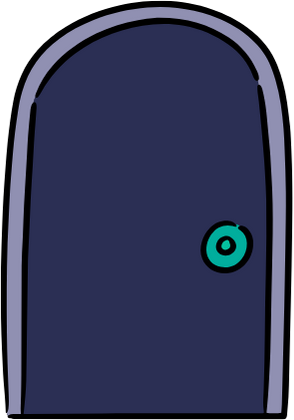
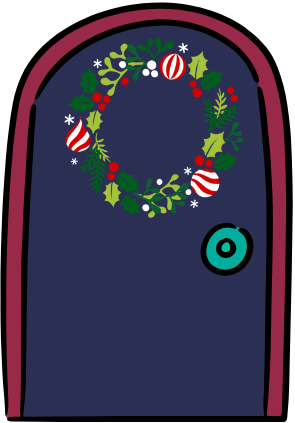
update doors, bg, build script

Changed region(s): [[0.0, 0.0, 1.0, 1.0], [0.6735, 0.5262, 0.8571, 0.65]]

diff --git a/themes/haystack/layouts/partials/arrow-button.html b/themes/haystack/layouts/partials/arrow-button.html
@@ -32,6 +32,11 @@
         {{ if eq . "discuss" }}
           <svg enable-background="new 0 0 404.009 404.009" viewBox="0 0 404.009 404.009" style="width: 1.5rem;margin-left:0.5rem" xmlns="http://www.w3.org/2000/svg"><g><g><path fill="#fff" d="m46.594 315.11c-13.5 0-26.689-3.445-38.642-10.157-6.15-3.167-8.532-11.091-4.858-17.052 12.207-19.506 16.615-43.35 11.026-65.774-5.793-23.247-14.175-42.826-14.115-67.436.208-86.341 72.073-156.337 158.326-154.662 83.31 1.678 151.969 71.71 151.97 155.042.001 108.833-114.057 185.243-214.75 143.216-13.879 10.894-31.324 16.823-48.957 16.823zm-16.404-26.572c18.968 5.891 40.301 1.185 54.928-12.956 3.604-3.485 8.995-4.362 13.517-2.199 86.207 41.217 187.666-23.387 187.665-118.312 0-70.834-57.624-129.621-128.452-131.047-72.992-1.45-133.667 57.666-133.843 130.725-.057 23.375 9.063 42.056 14.047 64.199 5.251 23.335 2.485 48.011-7.862 69.59z"></path></g><g><path d="m357.414 404.009c-17.632 0-35.078-5.93-48.955-16.822-53.55 22.349-117.248 12.171-161.155-25.747-5.016-4.332-5.57-11.909-1.239-16.926 4.332-5.015 11.909-5.571 16.925-1.238 38.942 33.63 95.973 41.195 142.384 19.007 4.521-2.164 9.911-1.286 13.517 2.199 14.626 14.14 35.96 18.849 54.928 12.955-12.206-25.459-13.897-54.626-4.438-81.628.085-.243.178-.482.278-.72 6.908-16.285 10.389-33.593 10.346-51.441-.076-31.468-10.544-60.577-30.274-84.182-4.25-5.086-3.573-12.653 1.512-16.903 5.084-4.251 12.653-3.573 16.903 1.512 23.036 27.561 35.771 62.902 35.859 99.515.051 20.971-4.018 41.323-12.093 60.499-8.482 24.553-4.581 50.842 9.002 72.709 3.677 5.962 1.293 13.887-4.859 17.056-11.951 6.709-25.143 10.154-38.641 10.155z"></path></g><g><g><ellipse cx="155.152" cy="155.669" rx="18.988" ry="18.978"></ellipse></g><g><ellipse cx="85.196" cy="155.669" rx="18.988" ry="18.978"></ellipse></g><g><ellipse cx="225.109" cy="155.669" rx="18.988" ry="18.978"></ellipse></g></g></g></svg>
         {{ end }}
+
+        {{ if eq . "submit" }}
+          <svg fill="none" viewBox="0 0 24 24" style="width: 1.5rem;margin-left:0.5rem;margin-bottom:0.15rem;" xmlns="http://www.w3.org/2000/svg"><g fill="#fff"><path d="m12.7071 4.29289c-.3905-.39052-1.0237-.39052-1.4142 0l-3.00001 3c-.39052.39053-.39052 1.02369 0 1.41422.39053.39052 1.02369.39052 1.41422 0l1.29289-1.2929v7.58579c0 .5523.4477 1 1 1s1-.4477 1-1v-7.58579l1.2929 1.2929c.3905.39052 1.0237.39052 1.4142 0 .3905-.39053.3905-1.02369 0-1.41422z"></path><path d="m4 14c.55228 0 1 .4477 1 1v1c0 1.1477.85228 2 2 2h10c1.1477 0 2-.8523 2-2v-1c0-.5523.4477-1 1-1s1 .4477 1 1v1c0 2.2523-1.7477 4-4 4h-10c-2.25228 0-4-1.7477-4-4v-1c0-.5523.44772-1 1-1z"></path></g></svg>
+        {{ end }}
+
       {{ end }}
       <div class="text-wrapper">
         {{ .text }}

diff --git a/themes/haystack/assets/sass/components/_advent.scss b/themes/haystack/assets/sass/components/_advent.scss
@@ -1,6 +1,11 @@
 .advent-content {
   background-color: var(--color-bg-dark-grey);
 
+  &.image-bg {
+    background-image: url("/images/advent-bg.jpg");
+    background-repeat: repeat;
+  }
+
   &.challenge {
     background-color: var(--color-light-grey);
   }
@@ -67,7 +72,7 @@
       right: 0;
       bottom: 0;
       left: 0;
-      padding: 3rem 2rem 1rem;
+      padding: 3rem 2rem 1rem 2.65rem;
       color: var(--color-white);
       font-size: 3rem;
       display: flex;
@@ -82,6 +87,7 @@
 
     .door-number {
       font-size: 4rem;
+      padding-top: 4.1rem;
     }
   }
 
@@ -99,7 +105,6 @@
     word-break: break-word;
     text-align: center;
   }
-
 }
 
 .challenge-content {

diff --git a/themes/haystack/layouts/partials/advent-challenge.html b/themes/haystack/layouts/partials/advent-challenge.html
@@ -9,7 +9,7 @@
 
             {{ with .Params.submit }}
                 {{ partial "arrow-button" (dict "context" . "type" "link" "text" "Submit" "url" . "color" "green" "icon"
-                "discuss")}}
+                "submit")}}
             {{ end }}
         </div>
 

diff --git a/themes/haystack/layouts/partials/advent-content.html b/themes/haystack/layouts/partials/advent-content.html
@@ -1,4 +1,4 @@
-<div class="advent-content">
+<div class="advent-content image-bg">
     <div class="container">
         {{ $adventPages := sort (.GetPage "/advent-of-haystack").Pages "Params.day" }}
         {{ $totalDoors := 13 }}
